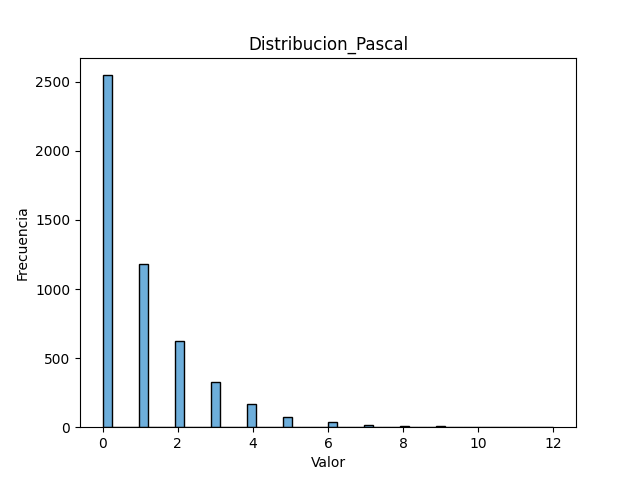
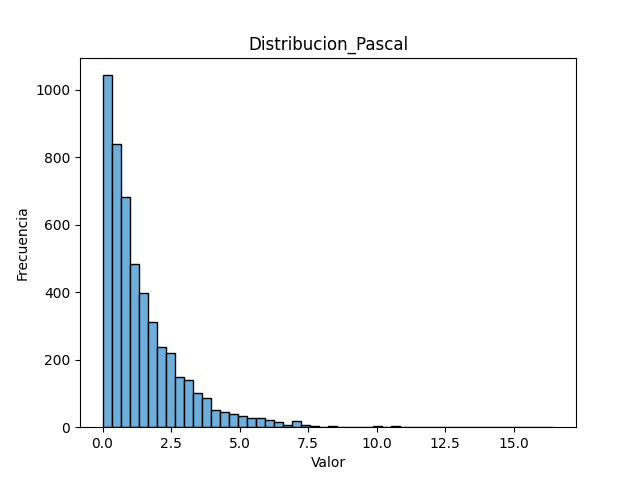
update distribuciones.py

diff --git a/TP 2.2/distribuciones.py b/TP 2.2/distribuciones.py
@@ -114,29 +114,61 @@ def graficar(f : Callable, *args):
 
 if __name__ == "__main__":
 
-  nombre_funcion = "Uniforme"
-  graficar(partial(np.random.uniform, 0, 1))
+  # Distribuciones con los generadores de numpy
 
-  nombre_funcion = "Exponencial"
+  nombre_funcion = "Uniforme_Numpy"
+  graficar(partial(np.random.uniform, 0, 1))
+  
+
+  nombre_funcion = "Exponencial_Numpy"
   graficar(partial(np.random.exponential, 1))
 
-  nombre_funcion = "Gamma"
+  nombre_funcion = "Gamma_Numpy"
   graficar(partial(np.random.gamma, 1, 1)) # mismo comportamiento que la exponencial
 
-  nombre_funcion = "Normal"
+  nombre_funcion = "Normal_Numpy"
   graficar(partial(np.random.normal, 0, 1))
 
-  nombre_funcion = "Pascal"
+  nombre_funcion = "Pascal_Numpy"
   graficar(partial(np.random.negative_binomial, 1, 0.5)) # no se si es correcto
 
-  nombre_funcion = "Binomial"
+  nombre_funcion = "Binomial_Numpy"
   graficar(partial(np.random.binomial, 10, 0.5))
 
-  nombre_funcion = "Hipergeometrica"
+  nombre_funcion = "Hipergeometrica_Numpy"
   graficar(partial(np.random.hypergeometric, 10, 5, 5)) # parecido a la binomial
 
-  nombre_funcion = "Poisson"
+  nombre_funcion = "Poisson_Numpy"
   graficar(partial(np.random.poisson, 1))
 
-  nombre_funcion = "Empirica Discreta"
+  nombre_funcion = "Empirica Discreta_Numpy"
   graficar(partial(np.random.choice, [0, 1, 2, 3, 4], p=[0.1, 0.2, 0.3, 0.2, 0.2])) # esto ni idea
+
+  # Distribuciones con los generadores programados
+
+  nombre_funcion = "Uniforme"
+  graficar(partial(uniforme, 0, 1))
+
+  nombre_funcion = "Exponencial"
+  graficar(partial(exponencial, 1))
+
+  nombre_funcion = "Gamma"
+  graficar(partial(gamma, 1, 1))
+
+  nombre_funcion = "Normal"
+  graficar(partial(normal, 0, 1))
+
+  nombre_funcion = "Pascal"
+  graficar(partial(pascal, 1, 0.5)) # se ve distinta a la de numpy
+
+  nombre_funcion = "Binomial"
+  graficar(partial(binomial, 10, 0.5))
+
+  nombre_funcion = "Hipergeometrica"
+  graficar(partial(hipergeometrica, 10, 5, 5)) # se ve distinta a la de numpy
+
+  nombre_funcion = "Poisson"
+  graficar(partial(poisson, 1))
+
+  nombre_funcion = "Empirica Discreta"
+  graficar(partial(empirica_discreta, [0, 1, 2, 3, 4], p=[0.1, 0.2, 0.3, 0.2, 0.2])) # esta falla, se tienen que arreglar los argumentos
